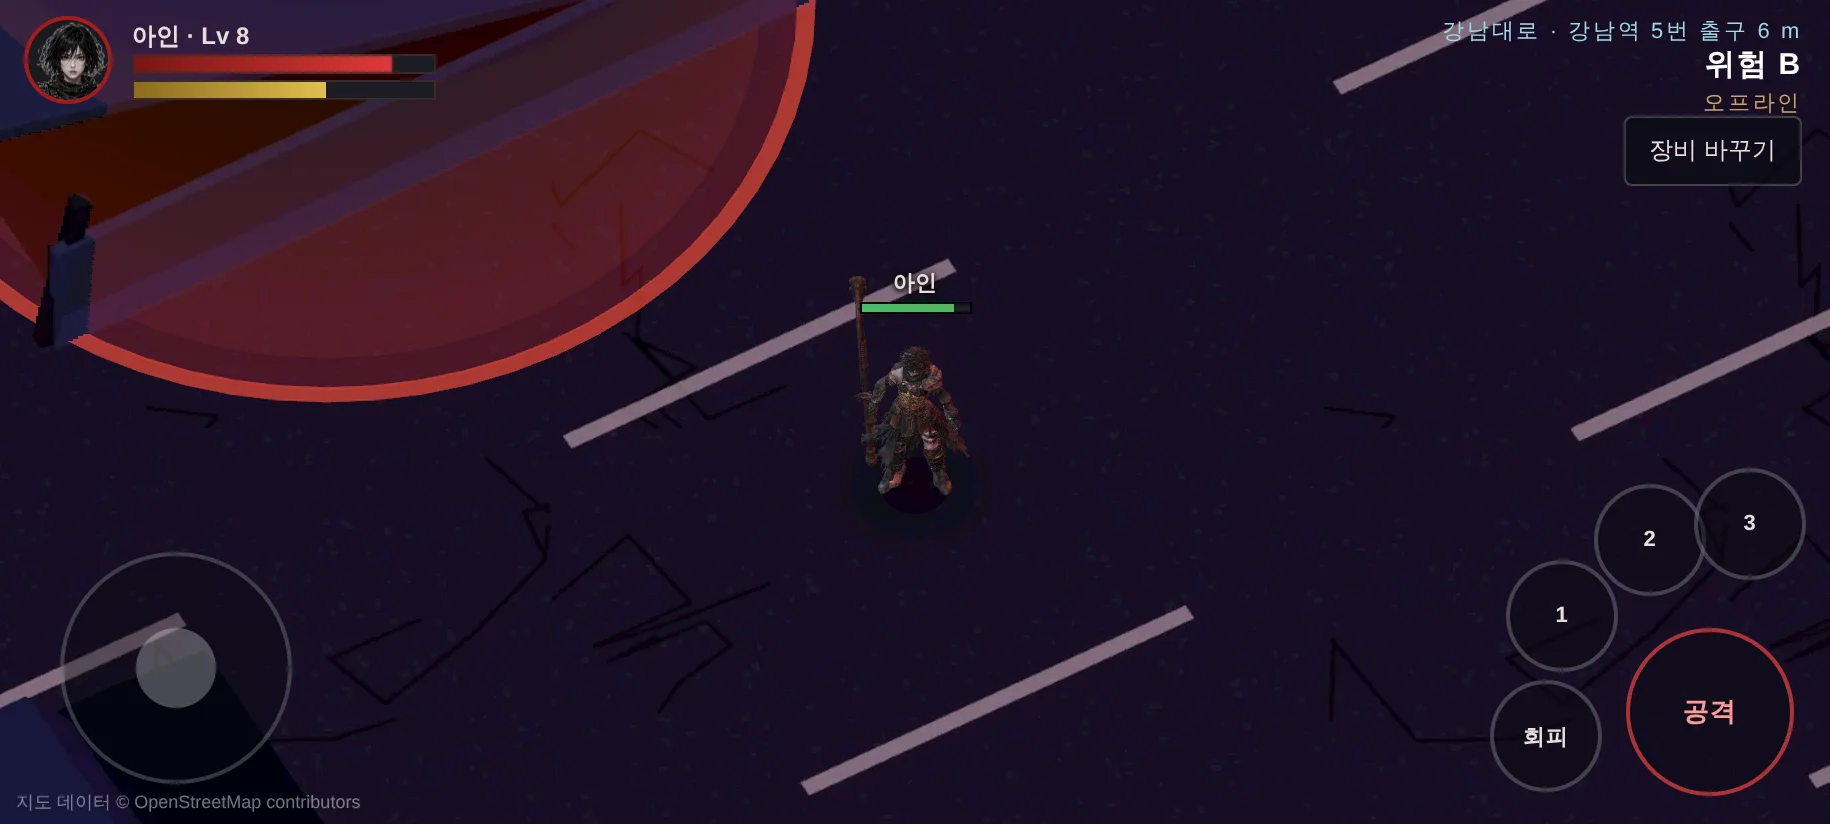
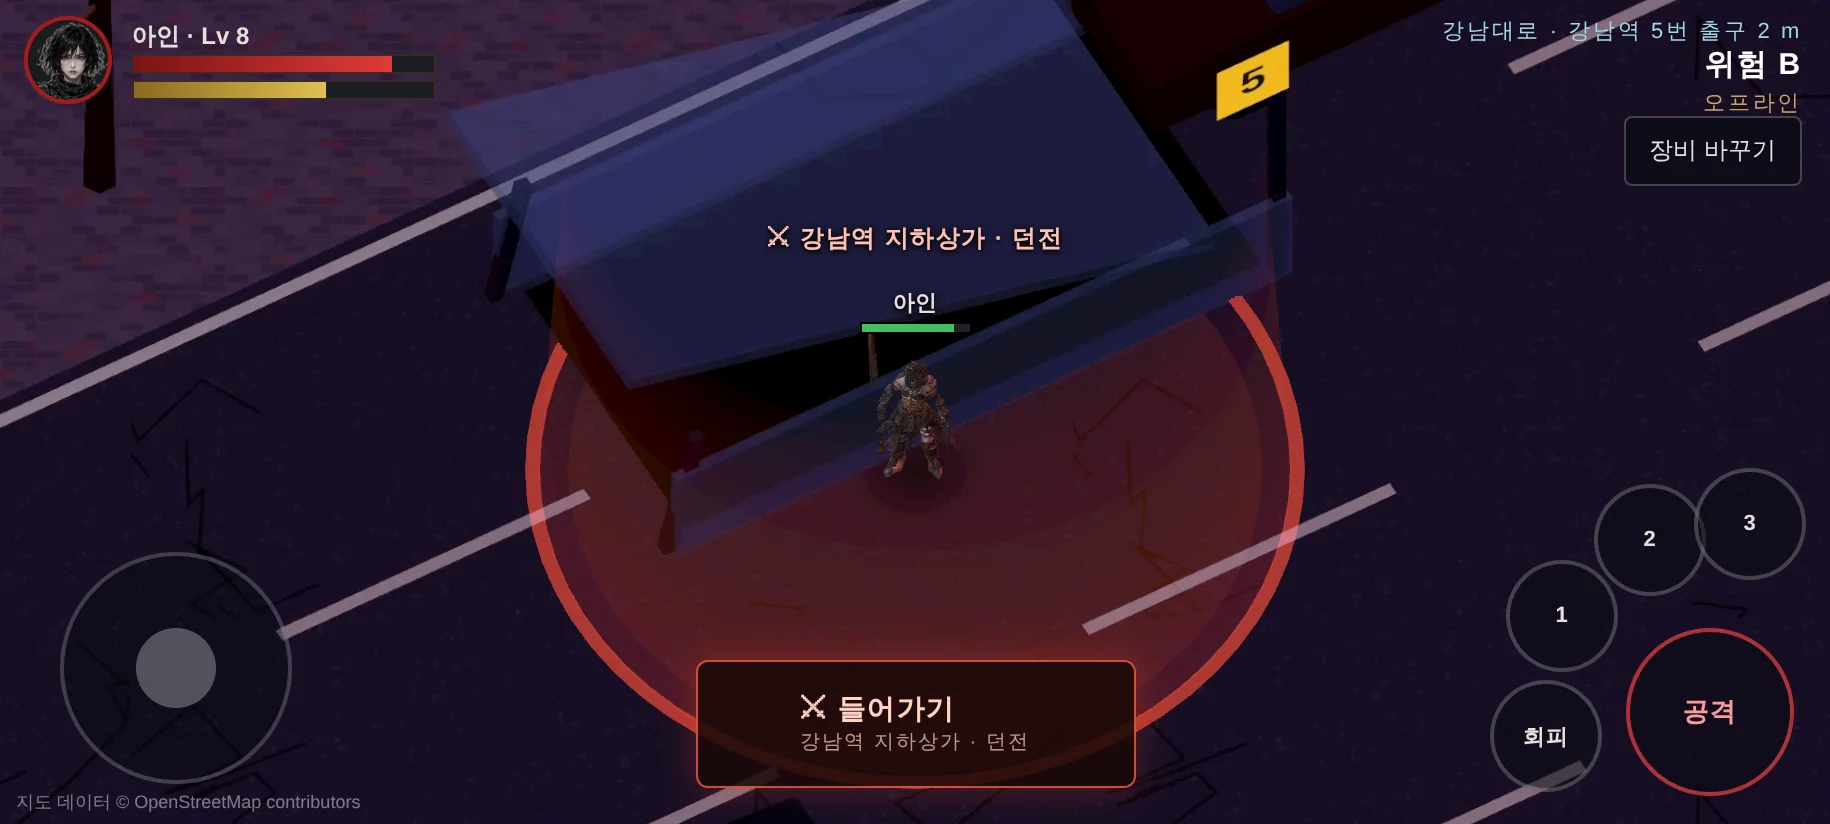
문서 185 §6.6 — 지역·문·경계·던전·보스 구역, 고친 것(땅에 박힘), Render 재배포 대기
Claude-Session: https://claude.ai/code/session_01RgVgsjzbv3WmTrjJksX3L1

diff --git a/docs/design/185-2d-mmorpg-plan.md b/docs/design/185-2d-mmorpg-plan.md
@@ -292,14 +292,14 @@ ASTC 8×8 압축으로도 약 63 MB 다. 장비가 다른 플레이어 20명이 
 
 | 원문 (제1부 통합본 EP02) | 던전에서 |
 |---|---|
-| «지하 1층 상가 통로는 허리까지 잠겨 있었다» | 물 높이 0.9 m — 구운 높이에 들어가 인물의 허리 아래가 가려진다. 발밑엔 그림자 대신 물결 |
+| «지하 1층 상가 통로는 허리까지 잠겨 있었다» | 물 높이 0.9 m — **굽지 않고** 게임이 반투명하게 일렁이는 물면을 그린다. 물 밑 다리는 물빛으로 흐려지되 장비(부츠)는 비쳐 보인다. 발밑엔 그림자 대신 물결 |
 | «천장의 형광등 … 3초 켜짐. 1초 꺼짐» | `map.json flicker` — 게임이 화면을 3초/1초로 깜빡이고 캐릭터 빛도 같이 죽는다 |
 | «깨진 한글 네온 「생맥주」 — 마지막 글자만 살아서» | «주» 만 켜진 간판 |
 | «벽에 긁힌 자국 … 세 줄씩» · «쇼윈도 리퍼 — 유리 뒤에서 기다린다» | 세 줄 긁힘, 유리 뒤 웅크린 그림자 |
 | «스크린도어 옆에 시 액자» · «전광판 「잠시 후 열차가 도착합니다」» | 광장 북쪽 2호선 쪽. 승강장(B2)은 셔터로 막힘 — 다음 층 |
 | «중앙 광장 — 지하 1층과 2층을 튼 2층 높이 … 크리스마스 장식 … 뒤집힌 진열대» | **보스 구역 · 클레이브** (반지름 19 m) |
 
-- 상가 안쪽은 «등을 맞댄 가게 두 줄» 섬이 바둑판으로, 큰 통로 둘(강남대로 밑 · 테헤란로 밑)은 비운다. 출발점(5번 출구 계단) → 광장까지 약 260 m.
+- 상가 안쪽은 «등을 맞댄 가게 두 줄» 섬이 바둑판으로, 큰 통로 둘(강남대로 밑 · 테헤란로 밑)은 비운다. 출발점(5번 출구 계단) → 광장까지 약 290 m.
 
 **보스 구역** — `map.json bosses[]` (자리 · 반지름 · 모델). 들어서면 화면 위 «보스 구역 · 이름» + 붉은 테두리, 보스가 천천히 돌아본다.
 전투는 다음 단계 — 지금은 «어디에 무엇이 있는가» 를 맵에 박는다.
@@ -307,7 +307,45 @@ ASTC 8×8 압축으로도 약 63 MB 다. 장비가 다른 플레이어 20명이 
 | 지역 | 보스 | 자리 | 원작 |
 |---|---|---|---|
 | 지하상가 B1 | 클레이브 «셔터 끄는 놈» (3.2 m) | 사거리 밑 중앙 광장 | EP02 §10 |
-| 남산 | 셀레스티얼 «내려오지 않는 놈» (6.5 m 위에 떠 있다) | 타워 앞 광장 | EP04 — 첫 조우는 후퇴 |
+| 남산 | 셀레스티얼 «내려오지 않는 놈» (3.2 m 위에 떠 있다) | 타워 앞 광장 | EP04 — 첫 조우는 후퇴 |
+
+![던전 평면 — 실측 상가 윤곽, 가게 섬, 사거리 밑 중앙 광장](../img/185-dungeon-plan.webp)
+![강남 5번 출구 — 던전 입구 문](../img/185-gate-exit5.webp)
+![강남 북쪽 끝 — 통제선 사이 남산 문](../img/185-boundary-north.webp)
+![던전 도착 — 5번 출구 계단 밑](../img/185-dungeon-arrive.webp)
+![던전 보스 구역 — 클레이브, 크리스마스 전구 줄](../img/185-dungeon-boss.webp)
+![던전 세로](../img/185-dungeon-port.webp)
+![남산 도착 — 강남에서 넘어온 문](../img/185-namsan-arrive.webp)
+![남산 케이블카 길 — 선 밑 계단길, 숲 벽, 난간](../img/185-namsan-path.webp)
+![남산 타워 광장 — 셀레스티얼](../img/185-namsan-boss.webp)
+
+**만든 것 · 숫자**
+
+| 지역 | 타일 | 용량 | 걷는 길이 |
+|---|---|---|---|
+| 강남 (다시 굽기) | 574 | 33.5 MB | 366 m |
+| 강남역 지하상가 B1 | 389 | 14 MB | 5번 출구 → 광장 약 290 m |
+| 남산 | 1006 | 53 MB (색 webp 0.6 — 숲 잔무늬가 0.82 에서 장당 68 KB) | 하부역 → 타워 약 780 m |
+
+- `js/mmo/env-dungeon.js` · `js/mmo/env-namsan.js` (남산 OSM: `ORIGIN=… AXIS=aerialway tools/2d/osm-extract.mjs`)
+- `mmo.html`: 문(빛 원·이름표·이동 단추 64 px · E) · 보스 구역(이름·붉은 테두리·돌아보기·떠 있는 보스) · 던전 형광등 깜빡임 · 물면 · 지역별 위치 표시
+- 서버 `fieldJoin.gate` (Render 재배포 필요 — `docs/DEPLOY-PENDING.md`)
+- 시험: `tests/zones-gates.test.cjs` (문 짝·띠 안·보스↔문 거리) · `tests/map-height.test.cjs` (아래) · `tests/field-server.test.cjs` (문으로 도착)
+
+**고친 것 (재서 찾았다)**
+
+| 증상 | 원인 | 조치 |
+|---|---|---|
+| **던전에서 인물이 땅에 박혀 무릎 아래가 안 보임** (디렉터) | 물면 0.9 m 를 높이 그림에 구워 넣음 — 물로 안 보이는 «바닥» 이 다리를 가렸다 | 물은 굽지 않고 게임이 반투명하게 그린다. 시험: 구운 높이 PNG 를 직접 풀어 출발점·문·보스 밑이 0.15 m 미만 (고치기 전 0.90 m 로 실패 확인) |
+| 강남 5번 출구 문에 서면 몸이 지붕에 가려짐 | 문이 무너진 지붕 밑 (보이는 면 2.02 m — 같은 시험이 찾음) | 시선 방향 레이캐스트로 가장 가까운 맨바닥 자리로 |
+| 이동 단추가 늘 보임 | `.gatebtn{display:flex}` 가 `[hidden]` 을 이김 (CLAUDE.md 의 그 실수) | `:not([hidden])` |
+| 문 빛기둥이 화면을 덮음 | 가산 혼합 + 블룸 | 색·불투명도 낮춤 |
+| 던전 전구가 바닥에 뿌린 색종이 같음 | 위에서 보면 줄 없이 점만 | 전선을 같이 그리고 성기게 |
+| 남산 숲이 인물을 가림 | 걷는 띠 안까지 나무 갓(4.7 m) | 띠 안은 14% 만 — 띠 밖 빽빽한 숲이 곧 경계 |
+| 남산 남쪽 문 원 안에 나무 | 길 둘레만 비움 | 문·출발점 둘레 비움 |
+
+![고치기 전 — 던전에서 맵 깊이 켬(왼쪽)/끔(오른쪽): 무릎 아래가 물면에 잘렸다](../img/185-sink-before.webp)
+
 
 ## 7. 성장 · 경제
 

diff --git a/docs/DEPLOY-PENDING.md b/docs/DEPLOY-PENDING.md
@@ -15,6 +15,7 @@
 | 커밋 | 무엇이 바뀌었나 |
 |---|---|
 | (2026-10-06, 2D 맵 MMORPG 필드) | `server/field.cjs` + `server/index.cjs` — `fieldJoin`/`fieldMove`/`fieldLook`/`fieldLeave`, 초당 10번 `field` (관심 반경 28 m, 속도 7.5 m/s 제한). 지역 정보는 `maps/2d/<zone>/map.json` 을 읽는다. 시험 `tests/field-server.test.cjs`. 배포 전에는 GitHub Pages 의 `mmo.html?server=…` 가 «오프라인» 으로 뜬다 |
+| (2026-10-06, 지역 · 문) | `server/field.cjs` — `fieldJoin.gate`: 다른 지역의 문으로 넘어오면 그 지역 `map.json gates` 의 짝 문 앞에 세운다. 새 지역 `gangnam_b1`(던전)·`namsan` 은 저장소의 `maps/2d/*/map.json` 을 읽으므로 **재배포해야 서버가 안다** |
 
 ## 2. 배포 완료 (2026-09-20)
 
